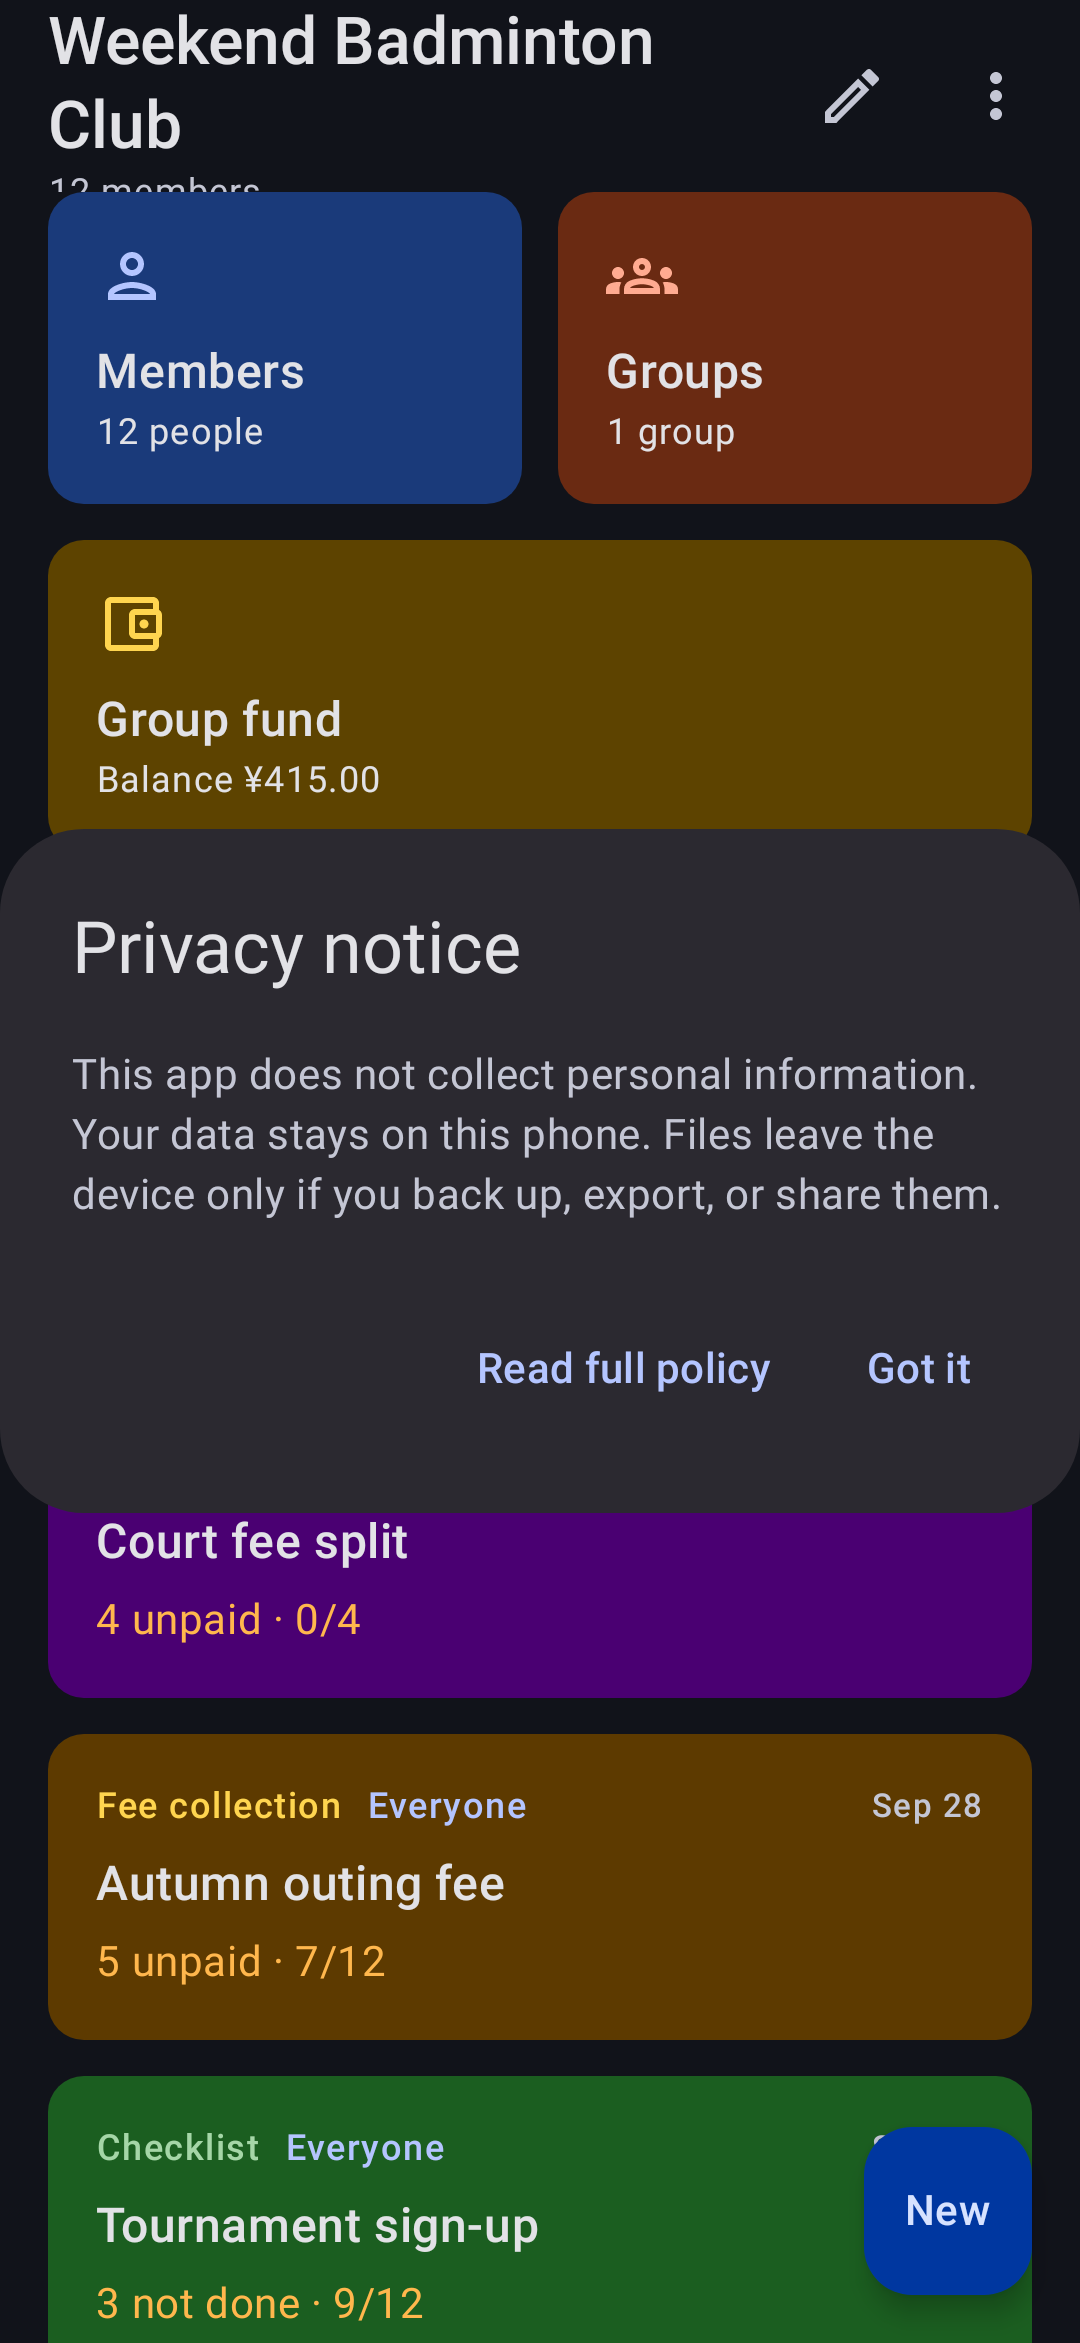
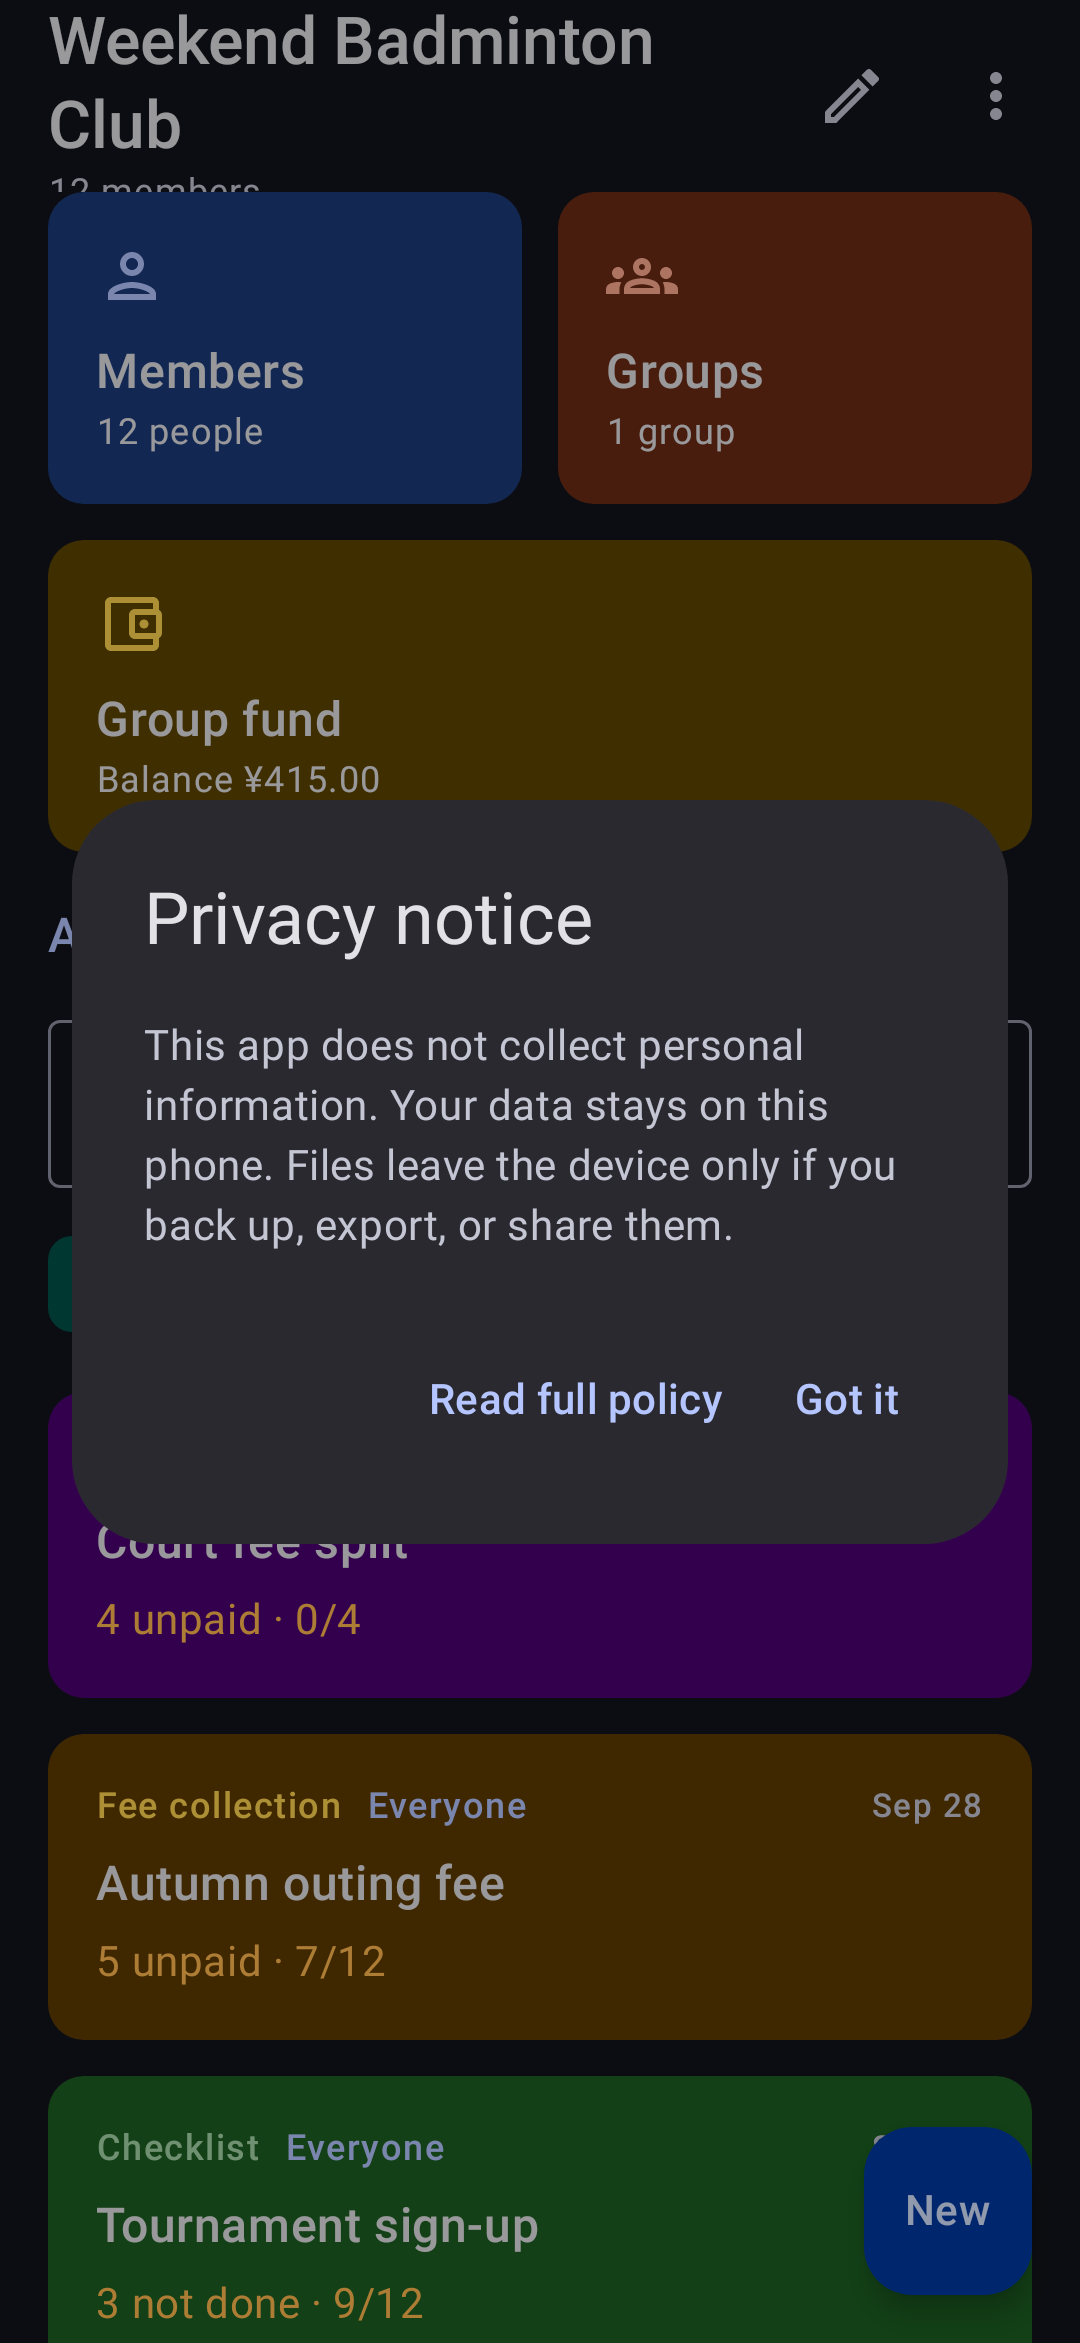
Privacy notice: M3 scrim and 24dp inset overlay (app + screenshots)

diff --git a/app/src/main/java/com/classrecord/app/ui/privacy/PrivacyNoticeDialog.kt b/app/src/main/java/com/classrecord/app/ui/privacy/PrivacyNoticeDialog.kt
@@ -1,30 +1,85 @@
 package com.classrecord.app.ui.privacy
 
-import androidx.compose.material3.AlertDialog
+import androidx.activity.compose.BackHandler
+import androidx.compose.foundation.background
+import androidx.compose.foundation.layout.Arrangement
+import androidx.compose.foundation.layout.Box
+import androidx.compose.foundation.layout.Column
+import androidx.compose.foundation.layout.Row
+import androidx.compose.foundation.layout.fillMaxSize
+import androidx.compose.foundation.layout.fillMaxWidth
+import androidx.compose.foundation.layout.padding
+import androidx.compose.foundation.layout.widthIn
+import androidx.compose.material3.AlertDialogDefaults
+import androidx.compose.material3.MaterialTheme
+import androidx.compose.material3.Surface
 import androidx.compose.material3.Text
 import androidx.compose.material3.TextButton
 import androidx.compose.runtime.Composable
+import androidx.compose.ui.Alignment
+import androidx.compose.ui.Modifier
 import androidx.compose.ui.res.stringResource
+import androidx.compose.ui.unit.dp
 import com.classrecord.app.R
 
+/**
+ * First-launch privacy notice: Material 3–style card (24dp+ side inset, rounded surface)
+ * over a dim scrim. Implemented in-tree so Roborazzi and on-device rendering match.
+ */
 @Composable
 fun PrivacyNoticeDialog(
     onDismiss: () -> Unit,
     onReadFullPolicy: () -> Unit,
 ) {
-    AlertDialog(
-        onDismissRequest = onDismiss,
-        title = { Text(stringResource(R.string.privacy_notice_title)) },
-        text = { Text(stringResource(R.string.privacy_notice_body)) },
-        confirmButton = {
-            TextButton(onClick = onDismiss) {
-                Text(stringResource(R.string.privacy_notice_got_it))
+    BackHandler(onBack = onDismiss)
+
+    Box(
+        modifier = Modifier.fillMaxSize(),
+        contentAlignment = Alignment.Center,
+    ) {
+        Box(
+            Modifier
+                .matchParentSize()
+                .background(MaterialTheme.colorScheme.scrim.copy(alpha = DialogScrimAlpha)),
+        )
+        Surface(
+            modifier = Modifier
+                .padding(horizontal = 24.dp)
+                .fillMaxWidth()
+                .widthIn(max = 560.dp),
+            shape = AlertDialogDefaults.shape,
+            color = AlertDialogDefaults.containerColor,
+            tonalElevation = AlertDialogDefaults.TonalElevation,
+        ) {
+            Column(Modifier.padding(24.dp)) {
+                Text(
+                    text = stringResource(R.string.privacy_notice_title),
+                    style = MaterialTheme.typography.headlineSmall,
+                    color = MaterialTheme.colorScheme.onSurface,
+                )
+                Text(
+                    text = stringResource(R.string.privacy_notice_body),
+                    modifier = Modifier.padding(top = 16.dp),
+                    style = MaterialTheme.typography.bodyMedium,
+                    color = MaterialTheme.colorScheme.onSurfaceVariant,
+                )
+                Row(
+                    modifier = Modifier
+                        .fillMaxWidth()
+                        .padding(top = 24.dp),
+                    horizontalArrangement = Arrangement.End,
+                ) {
+                    TextButton(onClick = onReadFullPolicy) {
+                        Text(stringResource(R.string.privacy_notice_read_full))
+                    }
+                    TextButton(onClick = onDismiss) {
+                        Text(stringResource(R.string.privacy_notice_got_it))
+                    }
+                }
             }
-        },
-        dismissButton = {
-            TextButton(onClick = onReadFullPolicy) {
-                Text(stringResource(R.string.privacy_notice_read_full))
-            }
-        },
-    )
+        }
+    }
 }
+
+/** Matches Material 3 modal scrim opacity (see [DialogProperties]). */
+private const val DialogScrimAlpha = 0.32f

diff --git a/app/src/test/java/com/classrecord/app/DistributionScreenshotTest.kt b/app/src/test/java/com/classrecord/app/DistributionScreenshotTest.kt
@@ -80,7 +80,7 @@ class DistributionScreenshotTest {
         val app = org.robolectric.RuntimeEnvironment.getApplication() as ScreenshotTestApp
         ScreenshotTestSupport.seedDemo(app.container, english, dark)
         val container = app.container
-        captureComposable(fileName, dark, screenCapture = true) {
+        captureComposable(fileName, dark, screenCapture = false) {
             Box(Modifier.fillMaxSize()) {
                 HomeContent(container)
                 PrivacyNoticeDialog(onDismiss = {}, onReadFullPolicy = {})

diff --git a/app/src/main/java/com/classrecord/app/MainActivity.kt b/app/src/main/java/com/classrecord/app/MainActivity.kt
@@ -123,6 +123,7 @@ private fun ClassRecordRoot() {
         }
     }
 
+    Box(Modifier.fillMaxSize()) {
     NavHost(
         navController = navController,
         startDestination = start,
@@ -247,5 +248,6 @@ private fun ClassRecordRoot() {
                 }
             },
         )
+    }
     }
 }
